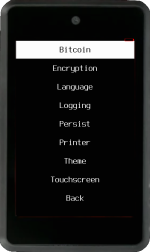
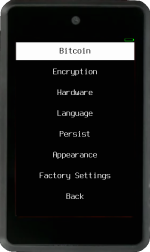
Docs updating settings

Changed region(s): [[0.24, 0.3333, 0.7467, 0.8056], [0.1067, 0.1389, 0.9067, 0.3056]]

diff --git a/docs/getting-started/settings.en.md b/docs/getting-started/settings.en.md
@@ -7,7 +7,7 @@ In the Krux home menu, there is a `Settings` entry. Below is a breakdown of the 
 <img src="../../img/maixpy_m5stickv/network-options-125.png" align="right">
 <img src="../../img/maixpy_amigo_tft/network-options-150.png" align="right">
 
-This option allows you to switch between `mainnet` (the default) and `testnet`. This is mostly useful for development. 
+This option allows you to switch between `mainnet` (the default) and `testnet`. `Testnet` can be used to try out different wallet coordinators or for development. 
 
 <div style="clear: both"></div>
 
@@ -15,7 +15,7 @@ This option allows you to switch between `mainnet` (the default) and `testnet`. 
 <img src="../../img/maixpy_m5stickv/encryption-options-125.png" align="right">
 <img src="../../img/maixpy_amigo_tft/encryption-options-150.png" align="right">
 
-Modify the encryption method and parameters to fit your needs. The encryption settings will be used both to store mnemonics and create encrypted QR codes.
+Modify the encryption method and parameters to fit your needs. This will be used when storing encrypted mnemonics or creating encrypted QR codes. For more info see [Krux Encrypted Mnemonics](./features/encrypted-mnemonics.en.md).
 
 <div style="clear: both"></div>
 
@@ -23,11 +23,11 @@ Modify the encryption method and parameters to fit your needs. The encryption se
 <img src="../../img/maixpy_m5stickv/encryption-options-pbkdf2-125.png" align="right">
 <img src="../../img/maixpy_amigo_tft/encryption-options-pbkdf2-150.png" align="right">
 
-When you enter a encryption key it is not directly used to encrypt your data. As a feature to increase safety, specially against brute force attacks, the key is derived multiple times using hashing functions. PBKDF2(Password-Based Key Derivation Function) iterations stands for the amount of derivations that will be performed over your key prior to encrypt/decrypt your mnemonic.
+When you enter the encryption key, it is not directly used to encrypt your data. In order to protect against brute force attacks, the key is derived multiple times using hashing functions. PBKDF2 (Password-Based Key Derivation Function) iterations stands for the amount of derivations that will be performed over your key prior to encrypt/decrypt your mnemonic.
 
-If you increase this value it will make the encryption harder, at the cost of taking longer to encrypt and decrypt your mnemonics
+If you increase this value it will make the encryption harder, at the cost of taking longer to encrypt/decrypt your mnemonics.
 
-Values must be multiple of 10,000. This was done to save data space on QR codes, also, intermediary values wouldn't significantly affect safety or computation time.
+Values must be multiple of 10,000. This was done to save data space on QR codes.
 
 <div style="clear: both"></div>
 
@@ -35,46 +35,30 @@ Values must be multiple of 10,000. This was done to save data space on QR codes,
 <img src="../../img/maixpy_m5stickv/encryption-options-mode-125.png" align="right">
 <img src="../../img/maixpy_amigo_tft/encryption-options-mode-150.png" align="right">
 
-Choose between well known and widely used AES(Advanced Encryption Standard) modes:
+Choose between well known and widely used AES (Advanced Encryption Standard) modes:
 
 ##### AES-ECB
-
-ECB(Electronic Codebook), its a simpler method where encryption data blocks are encrypted individually. It will be faster and simpler to encrypt, QR codes will have a lower density and will be easier to transcribe.
+ECB (Electronic Codebook), its a simpler method where encryption data blocks are encrypted individually. It will be faster and simpler to encrypt, QR codes will have a lower density and will be easier to transcribe.
 
 ##### AES-CBC
+CBC (Cipher-block Chaining) is considered more secure as in the first data block an initialization vector (IV) is used to add random data to the encryption. The encryption of subsequent blocks depends on the data from previous blocks, ensuring chaining.
 
-CBC(Cipher-block Chaining) is considered safer, because at the first data block an initial vector(IV) is used to add random data to the encryption. Subsequent blocks encryption depend on data from the previous blocks, giving its chaining feature.
-It will take longer to encrypt, because a snapshot will be required to generate a random initial vector. This initial vector will be stored together with encrypted data, making encrypted QR codes denser and harder to transcript.
-
-<div style="clear: both"></div>
-
-### Language - Locale
-<img src="../../img/maixpy_m5stickv/locale-options-125.png" align="right">
-<img src="../../img/maixpy_amigo_tft/locale-options-150.png" align="right">
-
-Here you can change the language that Krux uses.
+Encryption will take longer because a snapshot will be needed to generate the IV. This IV will be stored together with encrypted data, making encrypted QR codes denser and harder to transcribe.
 
 <div style="clear: both"></div>
 
-### Logging
-<img src="../../img/maixpy_m5stickv/logging-options-125.png" align="right">
-<img src="../../img/maixpy_amigo_tft/logging-options-150.png" align="right">
+### Hardware
+<img src="../../img/maixpy_amigo_tft/settings-options-hardware-150.png" align="right">
 
-Krux is capable of logging out information as it runs to a `.krux.log` file on the root of an inserted microSD card. **By default, it logs nothing**.
+#### Encoder (Dock only)
+If your device has a rotary encoder, you can change the debounce threshold in milliseconds. With lower values, faster movements and navigation will be allowed.
 
-Unless you are running into a bug and trying to get more information to diagnose the problem, it is **strongly recommended** to leave the *Log Level* here as *NONE*.
+The caveat is low values can cause issues, such as double step and unexpected movements, especially with lower quality encoders. If this is the case increase the value to make navigation more stable.
 
-If you experience an error and want to see more information about it, including a stack trace, you can change the *Log Level* to *ERROR*. If you're developing and want to see _everything_, you can change *Log Level* to either *INFO* or *DEBUG*.
+#### Display (Amigo only)
+Some Amigo screens are different, here you can customize the BGR Colors, Flipped X Coordinates and Inverted Colors. For more info see [FAQ](../../../faq/#why-are-the-buttons-on-my-amigo-in-the-wrong-order-why-is-my-amigo-screen-displaying-the-wrong-colors)
 
-Note that *DEBUG* could inadvertently write your private keys to the log file if you have it enabled when entering your mnemonic, so set it with care. To help prevent an accident like this from happening, Krux will display a colored rectangle on the upper left corner of the screen, of which the color is relative to the logging level, being green the DEBUG color.
-
-<div style="clear: both"></div>
-
-### Persist
-<img src="../../img/maixpy_m5stickv/persist-options-125.png" align="right">
-<img src="../../img/maixpy_amigo_tft/persist-options-150.png" align="right">
-
-Choose between flash(device's internal memory) or SD card for the place where your settings will be stored.
+<img src="../../img/maixpy_amigo_tft/settings-options-hardware-display-150.png" align="right">
 
 <div style="clear: both"></div>
 
@@ -85,21 +69,45 @@ Choose between flash(device's internal memory) or SD card for the place where yo
 You can set up a thermal printer or tell Krux to store a GRBL CNC instructions file on a SD card to machine QR codes
 
 #### CNC
-
 Define several machining parameters according to the desired size, material you'll use, and your CNC characteristics and capabilities.
 
 #### Thermal
-
 Printers can come with different baudrates from the manufacturer. By default, Krux assumes the connected printer will have a baudrate of `9600`. If yours is different, you can change this here.
 Also setup the IOs you'll use and tweak parameters according to your printer recommendations. Consult the [part list](../../parts.md#optional-thermal-printer) page for supported printers.
 
 #### Driver
-
-Here you choose between Thermal, CNC or none(default). Leave this setting to "none" if you won't use a printer and don't want to be bothered by print prompts.
+Here you choose between Thermal, CNC or none (default). Leave this setting to "none" if you won't use a printer and don't want to be bothered by print prompts.
 
 <div style="clear: both"></div>
 
-### Theme
+#### Touchscreen (Amigo and Yahboom only)
+<img src="../../img/maixpy_amigo_tft/touchscreen-150.png" align="right">
+
+If your device has touchscreen you can change the touch detection threshold. If it is being too sensitive or detecting false (ghost) touches, you should increase the threshold value, making it less sensitive. The other way is also valid, reduce the threshold to make the screen more sensitive to touches.
+
+<div style="clear: both"></div>
+
+### Language - Locale
+<img src="../../img/maixpy_m5stickv/locale-options-125.png" align="right">
+<img src="../../img/maixpy_amigo_tft/locale-options-150.png" align="right">
+
+Here you can change Krux to your desired language.
+
+<div style="clear: both"></div>
+
+### Persist
+<img src="../../img/maixpy_m5stickv/persist-options-125.png" align="right">
+<img src="../../img/maixpy_amigo_tft/persist-options-150.png" align="right">
+
+Choose between flash (device's internal memory) or SD card for the place where your settings will be stored.
+
+<div style="clear: both"></div>
+
+### Appearance
+
+#### Screensaver time
+
+#### Theme
 <img src="../../img/maixpy_amigo_tft/theme-1-150.png">
 <img src="../../img/maixpy_amigo_tft/theme-2-150.png">
 <img src="../../img/maixpy_amigo_tft/theme-3-150.png">
@@ -109,17 +117,7 @@ Here you choose between Thermal, CNC or none(default). Leave this setting to "no
 
 Choose your color theme according to your preference. Some themes may be more suitable for some devices, coordinator cameras and environments. As an example, it may be easier to scan QR codes from Krux devices using light theme in brighter environments.
 
-
-### Touchscreen
-<img src="../../img/maixpy_amigo_tft/touchscreen-150.png" align="right">
-
-If your device has touchscreen you can change the touch detection threshold. If it is being too sensitive or detecting false (ghost) touches, you should increase the threshold value, making it less sensitive. The other way is also valid, reduce the threshold to make the screen more sensitive to touches.
-
 <div style="clear: both"></div>
 
-### Encoder
-
-If your device has a rotary encoder, you can change the debounce threshold in milliseconds. With lower values, faster movements and navigation will be allowed.
-
-The caveat is low values can cause issues, such as double step and unexpected movements, especially with lower quality encoders. If this is the case increase the value to make navigation more stable.
-
+### Factory Settings
+Restore device to factory settings and reboot.
